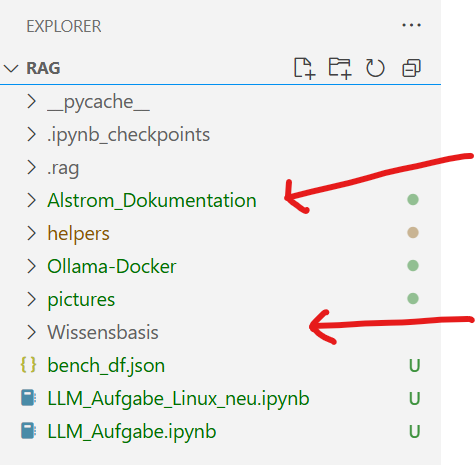
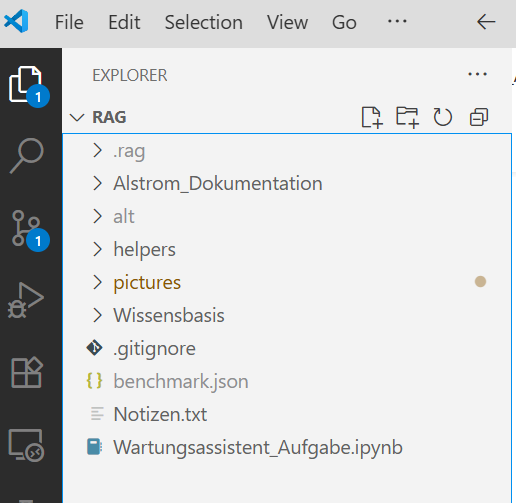
Bilder und wissensbasis anpassen

diff --git a/helpers/query_helpers.py b/helpers/query_helpers.py
@@ -31,11 +31,9 @@ def fill_bench_df(question: str, ground_truth: str, GPT_answer: str, GPT_score: 
     RAG_answer = "" 
     RAG_relevance = ""
     RAG_use = ""
-    RAG_completeness = "" 
-
     
 
-    entry = {"id": id}, {"Frage": question}, {"richtige Antwort": ground_truth}, {"GPT Antwort": GPT_answer}, {"Bewertung GPT":GPT_score}, {"RAG-Bot Antwort": RAG_answer}, {"Textnutzung":RAG_use}, {"Relevanz":RAG_relevance}, {"Vollständigkeit":RAG_completeness}
+    entry = {"id": id}, {"Frage": question}, {"richtige Antwort": ground_truth}, {"GPT Antwort": GPT_answer}, {"Bewertung GPT":GPT_score}, {"RAG-Bot Antwort": RAG_answer}, {"Relevanz":RAG_relevance}, {"Textnutzung":RAG_use}
     bench_df.append(entry)
 
     with open(filename, 'w') as file:
@@ -56,7 +54,6 @@ def insert_GPT_answer(filename: str = 'benchmark.json'):
     found = False
 
     for entry in bench_df: 
-        print(f"this is entry: {entry}")
         for d in entry:  
             print(f"this is d: {d}")
             if d.get("id") == int(id_input):
